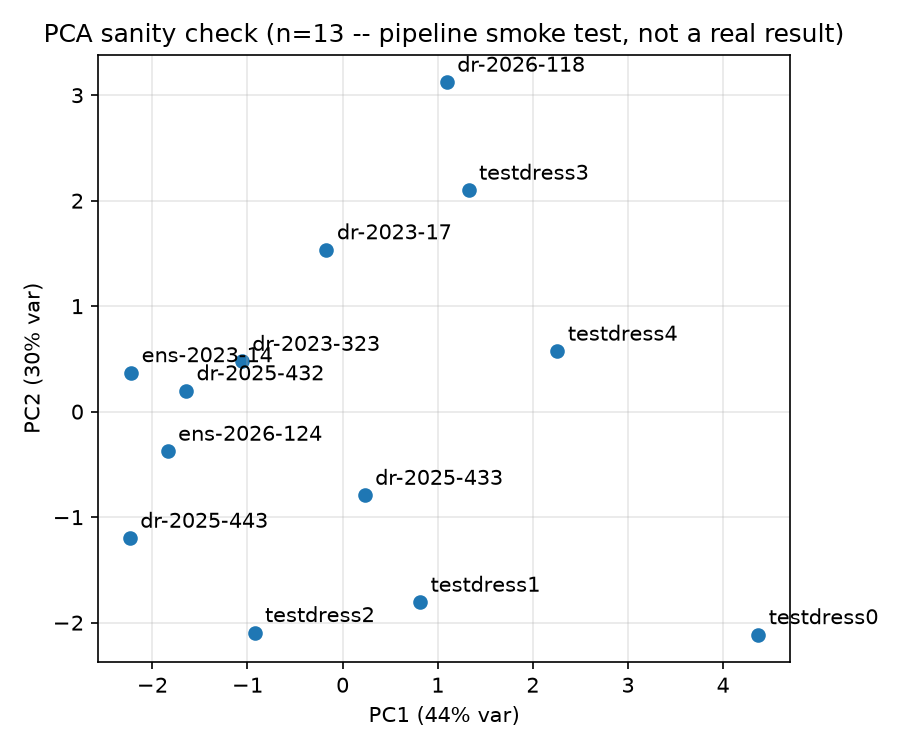
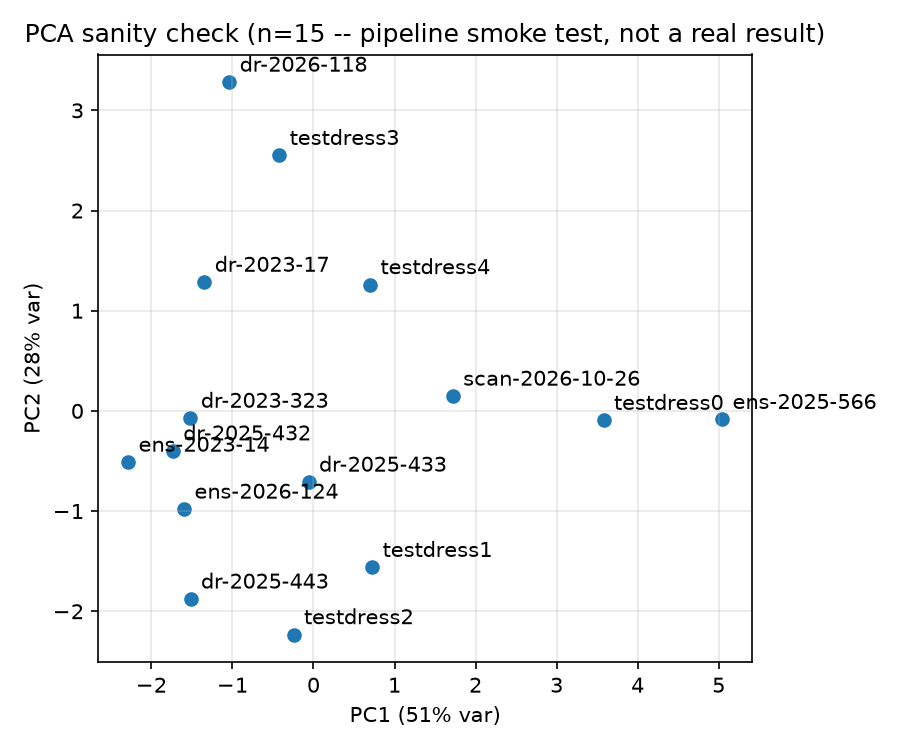
new garments

diff --git a/export_portfolio.py b/export_portfolio.py
@@ -9,8 +9,8 @@ doesn't jump around between runs as garments are added:
 
   - Component direction. PCA can return a component or its mirror image.
     Each component is flipped, if needed, so its ANCHORS feature loads
-    positively (PC1: bigger surface area is to the right; PC2: more hem
-    drape is up).
+    positively (PC1: more surface area for the garment's height is to the
+    right; PC2: more hem drape is up).
   - Cluster numbering. k-means numbers clusters arbitrarily; here cluster 0
     is the one with the highest mean PC1 score (the largest garments), then
     downward, so colours stay put when the grouping itself doesn't change.
@@ -36,7 +36,7 @@ from sklearn.metrics import silhouette_score
 
 from clustering_analysis import load_features
 
-ANCHORS = ["surface_area", "drape_extent"]
+ANCHORS = ["surface_area_norm", "drape_extent"]
 K_MAX = 4
 
 
